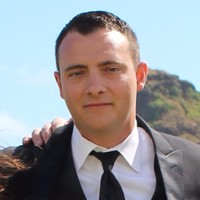
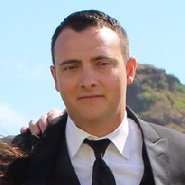
repositioned image added border

diff --git a/app.css b/app.css
@@ -48,16 +48,19 @@ body {
   padding: 30px;
   text-align: center;
   border-radius: 7px;
-  /*border: 5px solid black;*/
   background-color: #eeeeee;
   font-family: Georgia, "Times New Roman", Times, serif;
   margin-top: 15px;
   margin-bottom: 15px;
 }
 
-.v-title-image {
-  border: 1px solid #ddd;
+.title-image {
+  border: 1px solid black;
   border-radius: 50%;
   float: left;
-  padding: 5px;
+  padding: 0.2px;
+  margin-top: -26px;
+  max-width: 100%;
+  height: auto;
+  background-color: black;
 }

diff --git a/index.html b/index.html
@@ -13,7 +13,7 @@
     <div class="container">
       <div class="jumbotron">
         <div>
-          <img src="headshot.jpg" alt="headshot" class="v-title-image" />
+          <img src="headshot.jpg" class="title-image" alt="headshot" />
         </div>
         <h1>Jason Rostar</h1>
         <p>Certifications, Diplomas, and Awards</p>
